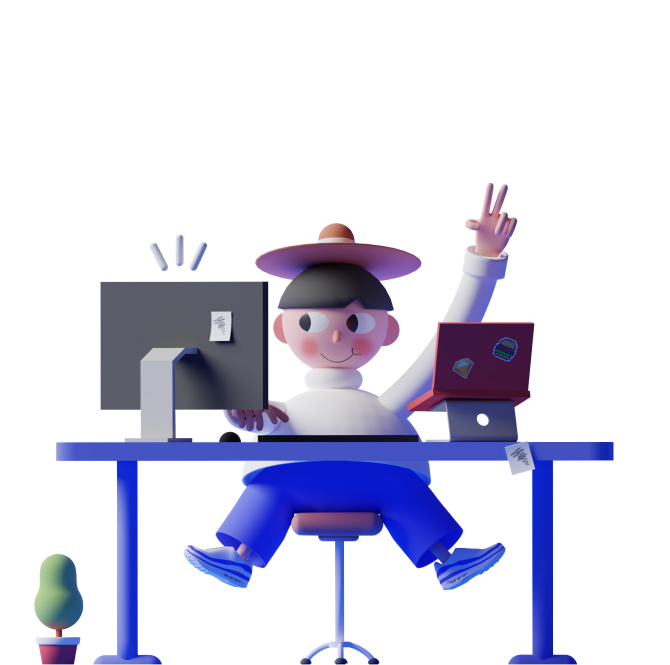
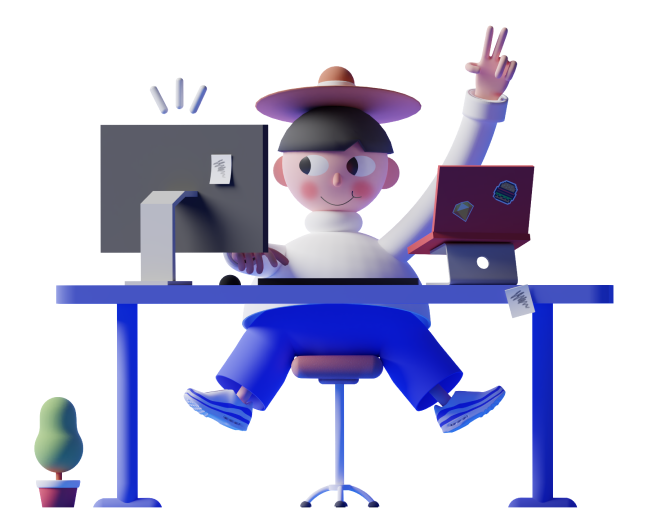
new

diff --git a/src/Components/Footer2.js b/src/Components/Footer2.js
@@ -172,7 +172,7 @@ function Footer() {
                                 <path d="M1 13L7 7L1 1" stroke="#FFFFFF" stroke-width="2" stroke-linecap="round" stroke-linejoin="round" />
                             </svg>
                         </button>
-                        <button className="text-white xl:w-1/3 lg:w-1/2 md:w-1/3 sm:w-1/2 w-36 text-sm py-3 xl:px-2 sm:px-1 px-3 font-bold inline-flex  text-start border-gray-400 border mt-5">
+                        <button className="text-white xl:w-1/3 lg:w-1/2 md:w-1/3 sm:w-1/2 w-36 text-sm py-3 xl:px-2 sm:px-2 px-4 font-bold inline-flex  text-start border-gray-400 border mt-5">
                             <p className="w-9/12">Contact Us</p>
                             <svg className="w-1/5 flex justify-end seemore mt-1" width="8" height="14" viewBox="0 0 8 14" fill="none" xmlns="http://www.w3.org/2000/svg">
                                 <path d="M1 13L7 7L1 1" stroke="#FFFFFF" stroke-width="2" stroke-linecap="round" stroke-linejoin="round" />
@@ -542,7 +542,7 @@ function Footer() {
                     )}
                 </div>
             </footer>
-            <div className="container mx-auto border-white border-b w-full px-5 flex justify-center mt-5"></div>
+            <div className="container md:mx-auto border-white border-b w-full px-5 flex justify-center"></div>
             <div className="lg:mt-8 w-full lg:ps-10">
                 <div className="flex-col justify-center">
                     <p className="w-full lg:mx-0 mx-auto sm:px-0 px-8 lg:mt-0 mt-7 font-normal text-sm text-center text-white">

diff --git a/src/Components/Featured.js b/src/Components/Featured.js
@@ -3,6 +3,7 @@ import { Swiper, SwiperSlide } from "swiper/react";
 import { Pagination, Navigation } from "swiper";
 import "swiper/css";
 import './style.css';
+//import "swiper/modules/pagination/pagination.min.css";
 
 function Featured(props) {
     const swiperRef = useRef(null)
@@ -23,7 +24,10 @@ function Featured(props) {
                 <div className="flex flex-wrap justify-center px-5 mt-10 mb-5">
                     <>
                         <Swiper
-                            pagination={true}
+                            pagination={{
+                                el: '.swiper-pagination',
+                                type: 'bullets'
+                            }}
                             ref={swiperRef}
                             loop={true}
                             navigation={{

diff --git a/src/Components/Header2.js b/src/Components/Header2.js
@@ -204,7 +204,7 @@ function Header2() {
     }, [toggleAbout5])
 
     return (
-        <header className="w-full absolute">
+        <header className="w-full relative">
             <div className="flex lg:flex-wrap flex-wrap-reverse justify-between content-center items-center bg-white">
                 <img href="Akdn" className="img flex" src={require('./assets/AKDN Identity with Tag Line 1.png')}></img>
                 <button onClick={toggleNav} className="flex items-center lg:order-1 order-0 focus:outline-none p-2 ms-3 text-sm font-semibold uppercase border-white border-2 px-6 py-3 text-gray-5 lg:hidden">

diff --git a/src/Components/Hero2.js b/src/Components/Hero2.js
@@ -19,7 +19,8 @@ function Hero2() {
                             </div>
                         </div>
                         <div className="flex justify-center lg:w-10/12 w-full lg:me-5 lg:-mt-52">
-                            <img src={require('./assets/Saly-10.png')}></img>
+                            <img className="lg:flex hidden" src={require('./assets/Saly-10 1.png')}></img>
+                            <img className="lg:hidden flex" src={require('./assets/Saly-10.png')}></img>
                         </div>
                     </div>
                     {/* <div className="w-1/2 flex content-end">

diff --git a/src/Components/Customers.js b/src/Components/Customers.js
@@ -31,7 +31,7 @@ function Customers(props) {
                             loop={true}
                             pagination={{
                                 el: '.swiper-pagination2',
-                                type: 'fraction',
+                                type: 'bullets',
                             }}
                             navigation={{
                                 nextEl: ".swiper-button-next1",
